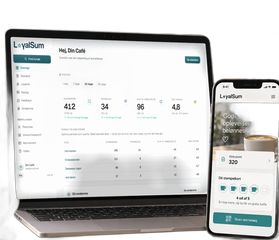
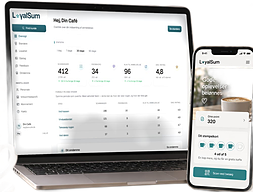
Produktstriben: skarpere fritlagte billeder
Ejeren fandt dem utydelige. Første udgave var klippet ud af et lille
udsnit af et foto og derefter omkodet af next/image med standardkvalitet.

- standeren er ejerens egen fritlagte fil (Dropbox), ikke et fotoudklip;
  de tre varer med stander deler den
- Online klippet ud af produktfotoet i fuld opløsning
- færdige PNG'er i 192 px (3 × visningen), let skærpede, vist unoptimized
- ?v=2 bryder timecachen på public/, så ingen ser de gamle

diff --git a/src/lib/constants.ts b/src/lib/constants.ts
@@ -876,22 +876,27 @@ export const PRODUKT_FOTO: Record<string, string> = {
 /**
  * FRITLAGTE PRODUKTBILLEDER — til de små billeder i produktstriben.
  *
- * Udklippet af det SAMME foto som `PRODUKT_FOTO`, så varen ser ens ud i
- * striben og på produktsiden. Fritlagt 29. sep. 2026 med rembg: de hvide
- * standere kræver `u2net` og udfyldte huller, for hvid akryl på lys baggrund
- * læses ellers som baggrund, og kroppen bliver gennemsigtig.
+ * SKARPHED ER HELE POINTEN (ejeren 29. sep. 2026: "utydelige"). Første
+ * udgave var klippet ud af et lille udsnit af et foto og blev derefter
+ * omkodet af next/image med standardkvaliteten — to gange tab på et billede,
+ * der vises 64 px højt. Nu er filerne FÆRDIGE: 192 px høje (3 × visningen),
+ * let skærpede efter nedskaleringen, og de vises `unoptimized`, så PNG'en når
+ * skærmen uændret.
  *
- * Reviewstander og Pro deler fil, fordi de deler foto. Kun PNG med alfa —
- * billedet står på et kort og skal ikke have en firkant om sig.
+ * Standeren er ejerens egen fritlagte fil ("Reviewstander_design_selv.png"
+ * i Dropbox/LoyalSum.dk), ikke et udklip af et foto — hvid akryl på lys
+ * baggrund kan ikke klippes rent ud automatisk. De tre varer med stander
+ * deler den; mærkatet på Komplet kan alligevel ikke ses i den størrelse.
+ * Online er klippet ud af sit produktfoto i fuld opløsning.
  */
 export const PRODUKT_FRITLAGT: Record<string, { src: string; w: number; h: number }> = {
-  reviewstander: { src: "/produkt-fritlagt/reviewstander.png", w: 191, h: 240 },
-  "reviewstander-pro": { src: "/produkt-fritlagt/reviewstander.png", w: 191, h: 240 },
-  "loyalsum-komplet": { src: "/produkt-fritlagt/loyalsum-komplet.png", w: 177, h: 240 },
+  reviewstander: { src: "/produkt-fritlagt/reviewstander.png?v=2", w: 152, h: 192 },
+  "reviewstander-pro": { src: "/produkt-fritlagt/reviewstander.png?v=2", w: 152, h: 192 },
+  "loyalsum-komplet": { src: "/produkt-fritlagt/reviewstander.png?v=2", w: 152, h: 192 },
   "loyalsum-komplet-online": {
-    src: "/produkt-fritlagt/loyalsum-komplet-online.png",
-    w: 279,
-    h: 240,
+    src: "/produkt-fritlagt/loyalsum-komplet-online.png?v=2",
+    w: 253,
+    h: 192,
   },
 };
 

diff --git a/src/lib/produkt-stribe.test.ts b/src/lib/produkt-stribe.test.ts
@@ -102,12 +102,18 @@ describe("de små fritlagte billeder (29. sep. 2026)", () => {
     expect(img).toContain('alt=""');
   });
 
+  it("vises uden omkodning — next/image gjorde dem slørede", () => {
+    const img = kilde.slice(kilde.indexOf("<Image"), kilde.indexOf("/>", kilde.indexOf("<Image")));
+    expect(img).toContain("unoptimized");
+  });
+
   it("hver vare i kataloget har et fritlagt PNG, der findes", () => {
     for (const p of KATALOG) {
       const fri = PRODUKT_FRITLAGT[p.slug];
       expect(fri, p.slug).toBeDefined();
-      expect(fri.src).toMatch(/\.png$/);
-      expect(existsSync(new URL(`../../public${fri.src}`, import.meta.url)), fri.src).toBe(true);
+      // `?v=N` bryder cachen på `public/`, når en fil skiftes ud.
+      expect(fri.src).toMatch(/\.png(\?v=\d+)?$/);
+      expect(existsSync(new URL(`../../public${fri.src.split("?")[0]}`, import.meta.url)), fri.src).toBe(true);
     }
   });
 });

diff --git a/src/components/produkt-stribe.tsx b/src/components/produkt-stribe.tsx
@@ -103,7 +103,7 @@ export function ProduktStribe({
                     width={fri.w}
                     height={fri.h}
                     alt=""
-                    sizes="80px"
+                    unoptimized
                     className="pointer-events-none absolute bottom-3 right-3.5 hidden h-16 w-auto drop-shadow-[0_4px_6px_rgba(6,35,46,0.18)] laptop:block"
                   />
                 ) : null}
